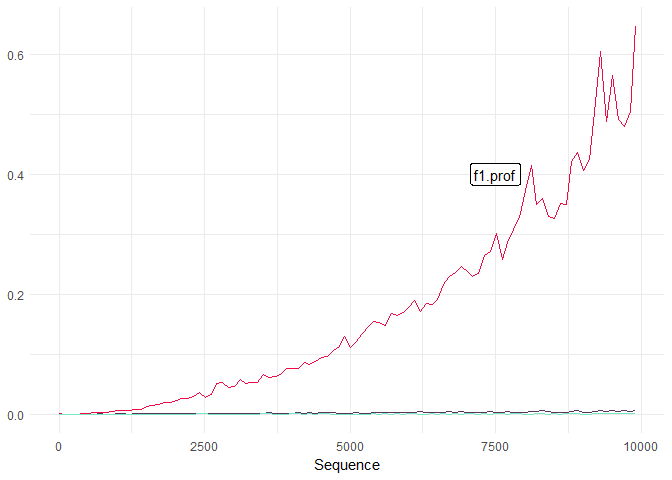
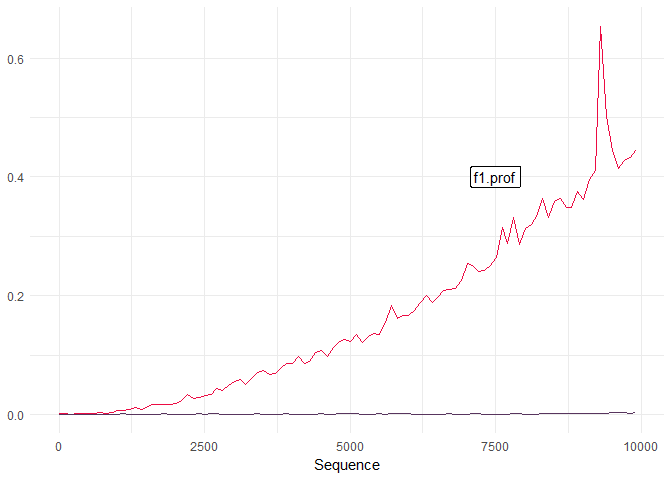
:taco:

diff --git a/README.md b/README.md
@@ -418,7 +418,9 @@ mine](http://musicallyut.blogspot.com.br/2012/07/pre-allocate-your-vectors.html)
 on the subject, by Utkarsh Upadhyay. (From 2012\!\! Wow. [Another
 interesting
 article](http://www.noamross.net/blog/2013/4/25/faster-talk.html) on the
-subject, by Noam Ross, led me to it.)
+subject, by Noam Ross, led me to it.) What’s happening here? We’re
+*pre-allocating* vectors of the size we need before we run our for
+loops. Makes all the difference
 
 <details>
 
@@ -436,14 +438,6 @@ f1 <- function (n) {
 }
 
 f2 <- function (n) {
-    l <- list()
-    for(i in 1:n) {
-        l[[length(l) + 1]] <- i
-    }
-    return(l)
-}
-
-f3 <- function (n) {
     l <- vector("list", n)  ## pre-allocate the size
     for(i in 1:n) {
         l[[i]] <- i
@@ -465,14 +459,10 @@ run.all <- function (reps = 10) {
     message("Running f2 ...")
     f2.prof <- sapply(timesSeq, function (arg) warm.up(f2, arg, reps)[1] / reps)
 
-    message("Running f3 ...")
-    f3.prof <- sapply(timesSeq, function (arg) warm.up(f3, arg, reps)[1] / reps)
-
     return(tibble(
                 timesSeq  =  timesSeq,
                 f1.prof = f1.prof,
-                f2.prof = f2.prof,
-                f3.prof = f3.prof
+                f2.prof = f2.prof
     ))
 }
 
@@ -482,7 +472,6 @@ library(ggplot2)
 ggplot(x, aes(x = timesSeq, group = 1)) +
   geom_line(aes(y = f1.prof), colour = "#ec0b43") +
   geom_line(aes(y = f2.prof), colour = "#58355e") +
-  geom_line(aes(y = f3.prof), colour = "#7ae7c7") +
   ylab(NULL) + theme_minimal() + xlab("Sequence") +
   annotate("label", x = 7500, y = 0.4, label = "f1.prof") 
 ```
